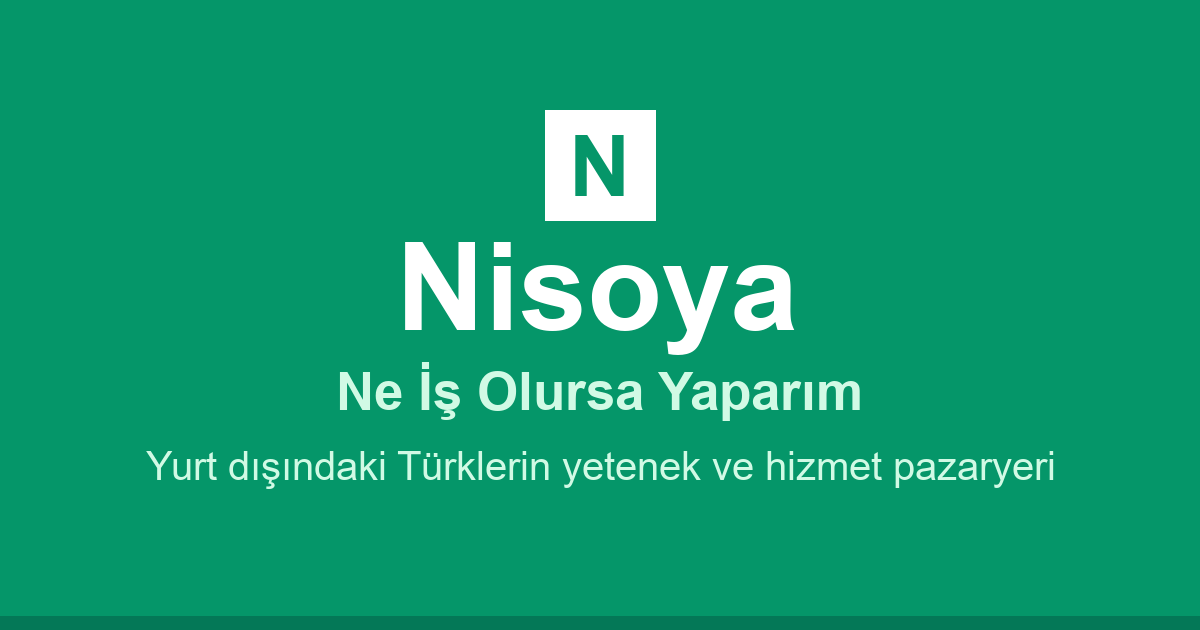
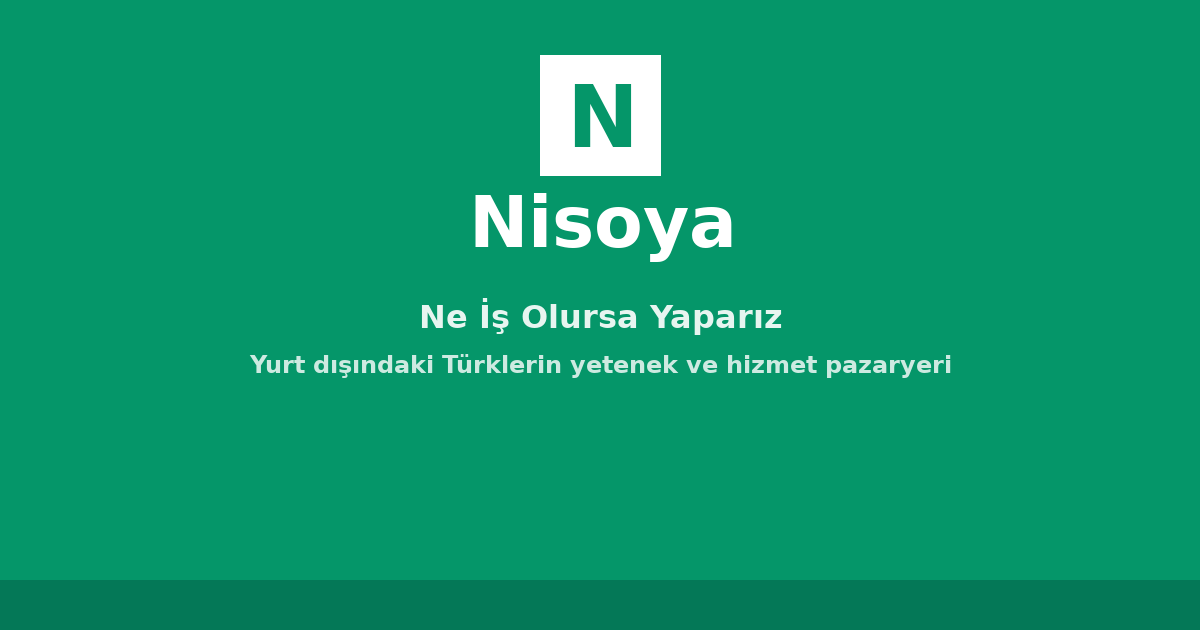
Slogan sitede: "Ne İş Olursa Yaparım" → "Ne İş Olursa Yaparız" (#188)
Sahibin kararı (2026-08-16): platform artık çoğul/topluluk sesiyle
"Ne İş Olursa Yaparız" diyor.

Kaynak kodda 16 dosya (7 bildirim maili, MailTemplates, Kâhya
ayar-doldur örneği, 2 guest layout footer'ı, tasarım-ayarları önizleme
metni, config varsayılanları, sayfa seeder'ı) + og.png yeniden üretildi.

Bunun YETMEDİĞİ ölçüldü: `genel.slogan`/`footer.aciklama`/
`seo.default_title` ve "Hakkımızda" sayfası `SiteSetting`/`Page`
tablolarında `firstOrCreate` ile bir kez yazılmış — kod değişikliği
zaten var olan satırı görünmez şekilde etkilemiyor. Bu yüzden bir
migration eklendi: SADECE hâlâ tam eski metni taşıyan satırları
düzeltiyor, panelden farklı bir şeye çevrilmiş satırlara dokunmuyor
(ölçüldü: canlıda `genel.slogan` zaten "Yurt Dışı Türklerin İş Arama
Platformu", `seo.default_title` zaten "Yaparız" — migration bunları
atlayacak, sahibin kendi editoryal kararlarını ezmiyor).

Doğrulama: yerelde migration çalıştırıldı, tarayıcıda anasayfa/
hakkımızda/giriş sayfası "Yaparız" gösteriyor; 2172/2173 test yeşil
(2 performans testi aynı kodla arka arkaya hem geçti hem düştü —
makine yükü, kodla ilgisi yok, stash ile doğrulandı); Pint + PHPStan
temiz.

Changed region(s): [[0.2158, 0.0603, 0.8017, 0.6635], [0.0, 0.9048, 1.0, 0.9952], [0.1233, 0.6937, 0.8942, 0.7841]]

diff --git a/database/migrations/2026_08_16_100000_update_slogan_content_to_yapariz.php b/database/migrations/2026_08_16_100000_update_slogan_content_to_yapariz.php
@@ -1,0 +1,109 @@
+<?php
+
+use App\Models\Page;
+use App\Models\SiteSetting;
+use App\Support\Settings;
+use Illuminate\Database\Migrations\Migration;
+
+/**
+ * Slogan "Ne İş Olursa Yaparım" → "Ne İş Olursa Yaparız" (2026-08-16, sahibin
+ * kararı). Kaynak dosyalardaki (Blade/Notification/config default) metin
+ * değişikliği YETMEZ: `SiteSetting`/`Page` içeriği `firstOrCreate` ile
+ * seedleniyor, yani eski metin DB'ye bir kez yazıldıktan sonra kod
+ * değişikliği görünmez kalır (bkz. konuşma özeti).
+ *
+ * SADECE hâlâ tam olarak eski metni taşıyan satırları düzeltir — admin
+ * panelden farklı bir şeye çevrilmiş satırlara DOKUNMAZ. Ölçülen örnek:
+ * canlıda `genel.slogan` zaten "Yurt Dışı Türklerin İş Arama Platformu",
+ * `seo.default_title` zaten "Yaparız" — ikisi de bu koşulla eşleşmiyor,
+ * yani bu migration onları OLDUĞU GİBİ bırakır.
+ */
+return new class extends Migration
+{
+    private const ESKI_HAKKIMIZDA = '"Ne İş Olursa Yaparım"';
+
+    private const YENI_HAKKIMIZDA = '"Ne İş Olursa Yaparız"';
+
+    public function up(): void
+    {
+        $this->degistir(
+            'genel.slogan',
+            'Ne İş Olursa Yaparım',
+            'Ne İş Olursa Yaparız',
+        );
+
+        $this->degistir(
+            'footer.aciklama',
+            'Ne İş Olursa Yaparım. Yurt dışındaki Türklerin kendi aralarında yetenek ve hizmet pazaryeri.',
+            'Ne İş Olursa Yaparız. Yurt dışındaki Türklerin kendi aralarında yetenek ve hizmet pazaryeri.',
+        );
+
+        $this->degistir(
+            'seo.default_title',
+            'Nisoya — Ne İş Olursa Yaparım',
+            'Nisoya — Ne İş Olursa Yaparız',
+        );
+
+        $this->hakkimizdaSayfasi(self::ESKI_HAKKIMIZDA, self::YENI_HAKKIMIZDA);
+
+        Settings::forget();
+    }
+
+    public function down(): void
+    {
+        $this->degistir(
+            'genel.slogan',
+            'Ne İş Olursa Yaparız',
+            'Ne İş Olursa Yaparım',
+        );
+
+        $this->degistir(
+            'footer.aciklama',
+            'Ne İş Olursa Yaparız. Yurt dışındaki Türklerin kendi aralarında yetenek ve hizmet pazaryeri.',
+            'Ne İş Olursa Yaparım. Yurt dışındaki Türklerin kendi aralarında yetenek ve hizmet pazaryeri.',
+        );
+
+        $this->degistir(
+            'seo.default_title',
+            'Nisoya — Ne İş Olursa Yaparız',
+            'Nisoya — Ne İş Olursa Yaparım',
+        );
+
+        $this->hakkimizdaSayfasi(self::YENI_HAKKIMIZDA, self::ESKI_HAKKIMIZDA);
+
+        Settings::forget();
+    }
+
+    private function degistir(string $anahtar, string $eski, string $yeni): void
+    {
+        SiteSetting::query()
+            ->where('key', $anahtar)
+            ->where('value', $eski)
+            ->update(['value' => $yeni]);
+    }
+
+    private function hakkimizdaSayfasi(string $eski, string $yeni): void
+    {
+        $sayfa = Page::query()->where('slug', 'hakkimizda')->first();
+
+        if ($sayfa === null) {
+            return;
+        }
+
+        $bloklar = $sayfa->blocks;
+        $degisti = false;
+
+        foreach ($bloklar as $i => $blok) {
+            $icerik = (string) ($blok['data']['content'] ?? '');
+
+            if (($blok['type'] ?? null) === 'metin' && str_contains($icerik, $eski)) {
+                $bloklar[$i]['data']['content'] = str_replace($eski, $yeni, $icerik);
+                $degisti = true;
+            }
+        }
+
+        if ($degisti) {
+            $sayfa->update(['blocks' => $bloklar]);
+        }
+    }
+};

diff --git a/config/site_defaults.php b/config/site_defaults.php
@@ -29,7 +29,7 @@ return [
 
         // --- Genel ---
         'genel.site_adi' => ['group' => 'genel', 'label' => 'Site adı', 'type' => 'text', 'default' => 'Nisoya'],
-        'genel.slogan' => ['group' => 'genel', 'label' => 'Slogan', 'type' => 'text', 'default' => 'Ne İş Olursa Yaparım'],
+        'genel.slogan' => ['group' => 'genel', 'label' => 'Slogan', 'type' => 'text', 'default' => 'Ne İş Olursa Yaparız'],
 
         // --- İletişim sayfası ---
         // 'iletisim.eposta' aynı zamanda yeni mesaj bildirimlerinin gönderileceği
@@ -139,7 +139,7 @@ return [
         'header.ozel_kod' => ['group' => 'header', 'label' => 'Header özel kod (</head> öncesi)', 'type' => 'code', 'default' => ''],
 
         // --- Footer ---
-        'footer.aciklama' => ['group' => 'footer', 'label' => 'Footer açıklama', 'type' => 'textarea', 'default' => 'Ne İş Olursa Yaparım. Yurt dışındaki Türklerin kendi aralarında yetenek ve hizmet pazaryeri.'],
+        'footer.aciklama' => ['group' => 'footer', 'label' => 'Footer açıklama', 'type' => 'textarea', 'default' => 'Ne İş Olursa Yaparız. Yurt dışındaki Türklerin kendi aralarında yetenek ve hizmet pazaryeri.'],
         'footer.telif_metni' => ['group' => 'footer', 'label' => 'Telif hakkı metni (yıl otomatik eklenir)', 'type' => 'text', 'default' => 'Nisoya. Tüm hakları saklıdır.'],
         'footer.sosyal_instagram' => ['group' => 'footer', 'label' => 'Instagram bağlantısı', 'type' => 'text', 'default' => ''],
         'footer.sosyal_facebook' => ['group' => 'footer', 'label' => 'Facebook bağlantısı', 'type' => 'text', 'default' => ''],
@@ -222,7 +222,7 @@ return [
         'duyuru.kapatilabilir' => ['group' => 'duyuru', 'label' => 'Ziyaretçi kapatabilsin', 'type' => 'select', 'options' => ['1' => 'Evet', '0' => 'Hayır'], 'default' => '1'],
 
         // --- SEO (arama motoru + paylaşım) — kendi sayfası var (SeoAyarlari).
-        'seo.default_title' => ['group' => 'seo', 'label' => 'Varsayılan başlık', 'type' => 'text', 'default' => 'Nisoya — Ne İş Olursa Yaparım'],
+        'seo.default_title' => ['group' => 'seo', 'label' => 'Varsayılan başlık', 'type' => 'text', 'default' => 'Nisoya — Ne İş Olursa Yaparız'],
         'seo.default_description' => ['group' => 'seo', 'label' => 'Varsayılan açıklama', 'type' => 'textarea', 'default' => 'Yurt dışındaki Türklerin yetenek, hizmet ve ev ürünleri pazaryeri. Kendi insanından güvenle hizmet al, yeteneğini paraya dönüştür.'],
         'seo.og_image' => ['group' => 'seo', 'label' => 'Paylaşım görseli (OG — 1200×630 önerilir)', 'type' => 'image', 'default' => ''],
         'seo.robots_index' => ['group' => 'seo', 'label' => 'Arama motorlarında görünür', 'type' => 'select', 'options' => ['1' => 'Görünür', '0' => 'Gizli (noindex)'], 'default' => '1'],

diff --git a/database/seeders/StaticPagesSeeder.php b/database/seeders/StaticPagesSeeder.php
@@ -27,7 +27,7 @@ class StaticPagesSeeder extends Seeder
                 'sort_order' => 1,
                 'meta_description' => 'Nisoya, yurt dışındaki Türklerin yetenek ve hizmet pazaryeri.',
                 'blocks' => [
-                    ['type' => 'metin', 'data' => ['content' => '<p><strong>Nisoya</strong> — "Ne İş Olursa Yaparım" — yurt dışında yaşayan Türklerin kendi aralarında yetenek, hizmet ve emeklerini paylaştığı bir pazaryeridir.</p><p>Yabancı bir ülkede yaşarken güvendiğin birinden hizmet almak, kendi dilinde anlaşmak çok değerlidir. Bir öğretmen, bir usta, bir aşçı, bir tasarımcı... Herkesin paylaşabileceği bir yeteneği var. Nisoya bu yetenekleri görünür kılar ve insanları buluşturur.</p><p>Amacımız basit: <strong>yeteneğini paraya dönüştürmek isteyenlerle, kendi insanından güvenle hizmet almak isteyenleri</strong> bir araya getirmek.</p><p>Nisoya bir aracıdır; ödeme ve anlaşmalar kullanıcılar arasında gerçekleşir. Topluluğu güvende tutmak için değerlendirme ve moderasyon sistemleri kullanırız.</p>']],
+                    ['type' => 'metin', 'data' => ['content' => '<p><strong>Nisoya</strong> — "Ne İş Olursa Yaparız" — yurt dışında yaşayan Türklerin kendi aralarında yetenek, hizmet ve emeklerini paylaştığı bir pazaryeridir.</p><p>Yabancı bir ülkede yaşarken güvendiğin birinden hizmet almak, kendi dilinde anlaşmak çok değerlidir. Bir öğretmen, bir usta, bir aşçı, bir tasarımcı... Herkesin paylaşabileceği bir yeteneği var. Nisoya bu yetenekleri görünür kılar ve insanları buluşturur.</p><p>Amacımız basit: <strong>yeteneğini paraya dönüştürmek isteyenlerle, kendi insanından güvenle hizmet almak isteyenleri</strong> bir araya getirmek.</p><p>Nisoya bir aracıdır; ödeme ve anlaşmalar kullanıcılar arasında gerçekleşir. Topluluğu güvende tutmak için değerlendirme ve moderasyon sistemleri kullanırız.</p>']],
                     ['type' => 'cta', 'data' => ['title' => 'Sen de aramıza katıl', 'button_text' => 'Ücretsiz kayıt ol', 'button_url' => '/kayit']],
                 ],
             ],

diff --git a/app/Notifications/ListingFlaggedNotification.php b/app/Notifications/ListingFlaggedNotification.php
@@ -47,6 +47,6 @@ class ListingFlaggedNotification extends Notification implements ShouldQueue
             ->line('"'.$this->listingTitle.'" ilanındaki bir görsel, otomatik ön kontrolümüz tarafından ek incelemeye alındı.')
             ->line('Bu genellikle yanlış bir eşleşmedir ve ekibimiz kısa süre içinde gözden geçirip ilanını tekrar yayına alacaktır. Ekstra bir şey yapmana gerek yok.')
             ->action('İlanlarımı görüntüle', $this->url)
-            ->line('Nisoya — Ne İş Olursa Yaparım');
+            ->line('Nisoya — Ne İş Olursa Yaparız');
     }
 }

diff --git a/app/Notifications/GpsPrivacyNotification.php b/app/Notifications/GpsPrivacyNotification.php
@@ -47,6 +47,6 @@ class GpsPrivacyNotification extends Notification implements ShouldQueue
             ->line('Bu bilgi görsel yayınlanmadan önce otomatik olarak temizlendi; başkaları tarafından görülemez.')
             ->line('Bilgin olsun istedik — telefon kamerandaki konum servisini kapatarak gelecekte bu bilgiyi baştan engelleyebilirsin.')
             ->action('İlanı görüntüle', route('panel.listings.edit', $this->listingId))
-            ->line('Nisoya — Ne İş Olursa Yaparım');
+            ->line('Nisoya — Ne İş Olursa Yaparız');
     }
 }

diff --git a/app/Notifications/EventMediaPurgeWarning.php b/app/Notifications/EventMediaPurgeWarning.php
@@ -36,7 +36,7 @@ class EventMediaPurgeWarning extends Notification implements ShouldQueue
             ->line('Depolama politikamız gereği anı akışındaki fotoğraf ve videolar **'.$this->purgeDate.'** tarihinde kalıcı olarak silinecek.')
             ->line('Saklamak istediklerini şimdiden bilgisayarına indirmeni öneririz.')
             ->action('Anı akışını aç', $this->inviteUrl)
-            ->line('Nisoya — Ne İş Olursa Yaparım');
+            ->line('Nisoya — Ne İş Olursa Yaparız');
     }
 
     /** @return array<string, mixed> */

diff --git a/app/Services/Kahya/Eylem/Eylemler/AyarDoldur.php b/app/Services/Kahya/Eylem/Eylemler/AyarDoldur.php
@@ -68,7 +68,7 @@ class AyarDoldur extends Eylem
             'anahtar' => 'Güncellenecek ayarın tam anahtarı. Yalnız seo. / duyuru. / iletisim. / '
                 .'nabiz. / bagis. ile başlayanlar yazılabilir. Ör. seo.default_title, '
                 .'duyuru.metin, iletisim.eposta, nabiz.hedef_sayi, bagis.baslik.',
-            'deger' => 'Yazılacak yeni değer, düz metin. Ör. "Nisoya — Ne İş Olursa Yaparım".',
+            'deger' => 'Yazılacak yeni değer, düz metin. Ör. "Nisoya — Ne İş Olursa Yaparız".',
         ];
     }
 

diff --git a/tests/Feature/PageTest.php b/tests/Feature/PageTest.php
@@ -79,7 +79,7 @@ class PageTest extends TestCase
     {
         $this->seed(StaticPagesSeeder::class);
 
-        $this->get('/hakkimizda')->assertOk()->assertSee('Hakkımızda')->assertSee('Ne İş Olursa Yaparım');
+        $this->get('/hakkimizda')->assertOk()->assertSee('Hakkımızda')->assertSee('Ne İş Olursa Yaparız');
         $this->get('/sss')->assertOk()->assertSee('Nisoya ücretli mi');
         $this->get('/kosullar')->assertOk()->assertSee('Platformun niteliği');
 

diff --git a/app/Notifications/IlanIpuclariNotification.php b/app/Notifications/IlanIpuclariNotification.php
@@ -64,6 +64,6 @@ class IlanIpuclariNotification extends Notification implements ShouldQueue
             // Bu cümle bilerek var: tek seferlik olduğunu söylemek, "acaba
             // her hafta bu mesaj gelecek mi" endişesini baştan kapatıyor.
             ->line('Bu tek seferlik bir öneri mesajıdır; aynı ilan için tekrar göndermeyeceğiz.')
-            ->line('Nisoya — Ne İş Olursa Yaparım');
+            ->line('Nisoya — Ne İş Olursa Yaparız');
     }
 }

diff --git a/resources/views/filament/pages/tasarim-ayarlari.blade.php b/resources/views/filament/pages/tasarim-ayarlari.blade.php
@@ -230,7 +230,7 @@
                          yani motorla ayrışamaz. --}}
                     <div class="mt-3 border border-gray-200 px-3 py-2.5 text-sm font-bold dark:border-gray-700"
                          style="border-radius: {{ $onizlemeKose }}; font-family: {{ $onizlemeFont }}; color: {{ $onizlemeRenk }}">
-                        Ne İş Olursa Yaparım
+                        Ne İş Olursa Yaparız
                     </div>
 
                     @if ($secili)

diff --git a/app/Notifications/ApplicationStatusNotification.php b/app/Notifications/ApplicationStatusNotification.php
@@ -43,6 +43,6 @@ class ApplicationStatusNotification extends Notification implements ShouldQueue
             ->line('"'.$this->jobTitle.'" ilanına yaptığın başvurunun durumu güncellendi:')
             ->line('Yeni durum: '.$this->statusLabel)
             ->action('İlanı görüntüle', route('jobs.show', [$this->jobId, $this->jobSlug]))
-            ->line('Nisoya — Ne İş Olursa Yaparım');
+            ->line('Nisoya — Ne İş Olursa Yaparız');
     }
 }

diff --git a/resources/views/vitrin/components/layouts/guest.blade.php b/resources/views/vitrin/components/layouts/guest.blade.php
@@ -65,7 +65,7 @@
             <a href="{{ url('/iletisim') }}" class="hover:text-emerald-700 hover:underline dark:hover:text-emerald-400">İletişim</a>
         </nav>
 
-        <p class="mt-3 text-xs font-medium text-stone-600 dark:text-stone-400">© {{ date('Y') }} Nisoya — Ne İş Olursa Yaparım</p>
+        <p class="mt-3 text-xs font-medium text-stone-600 dark:text-stone-400">© {{ date('Y') }} Nisoya — Ne İş Olursa Yaparız</p>
     </div>
 
     <script>
